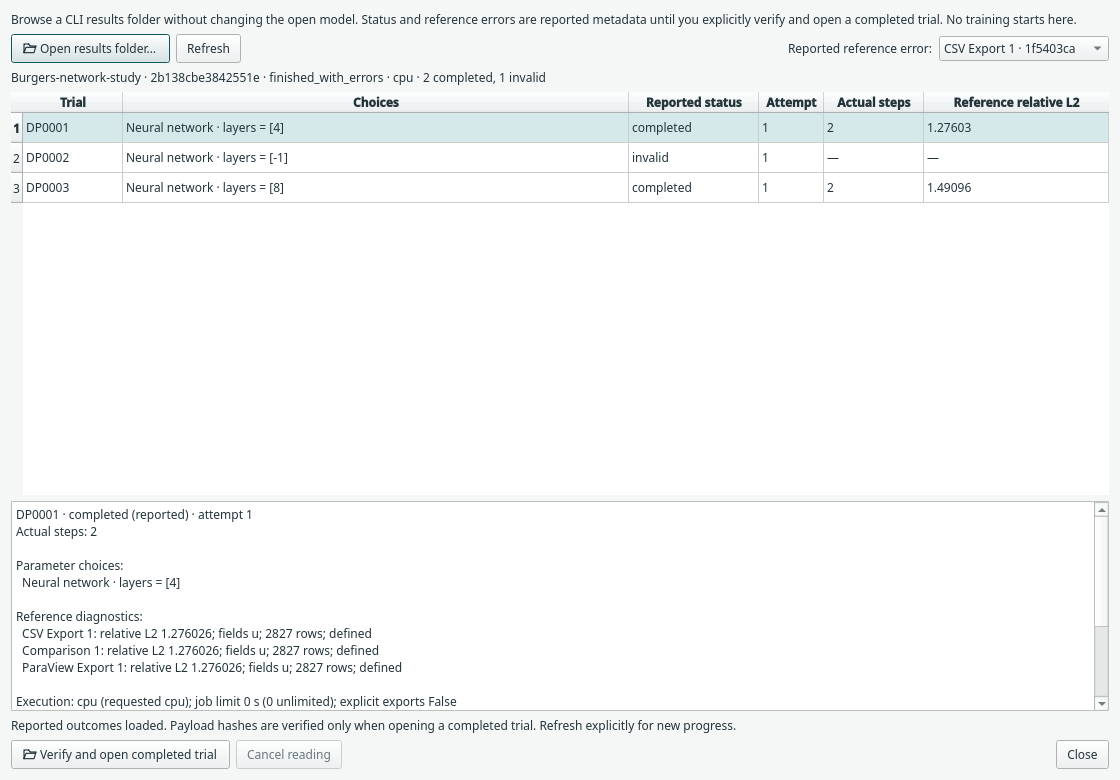
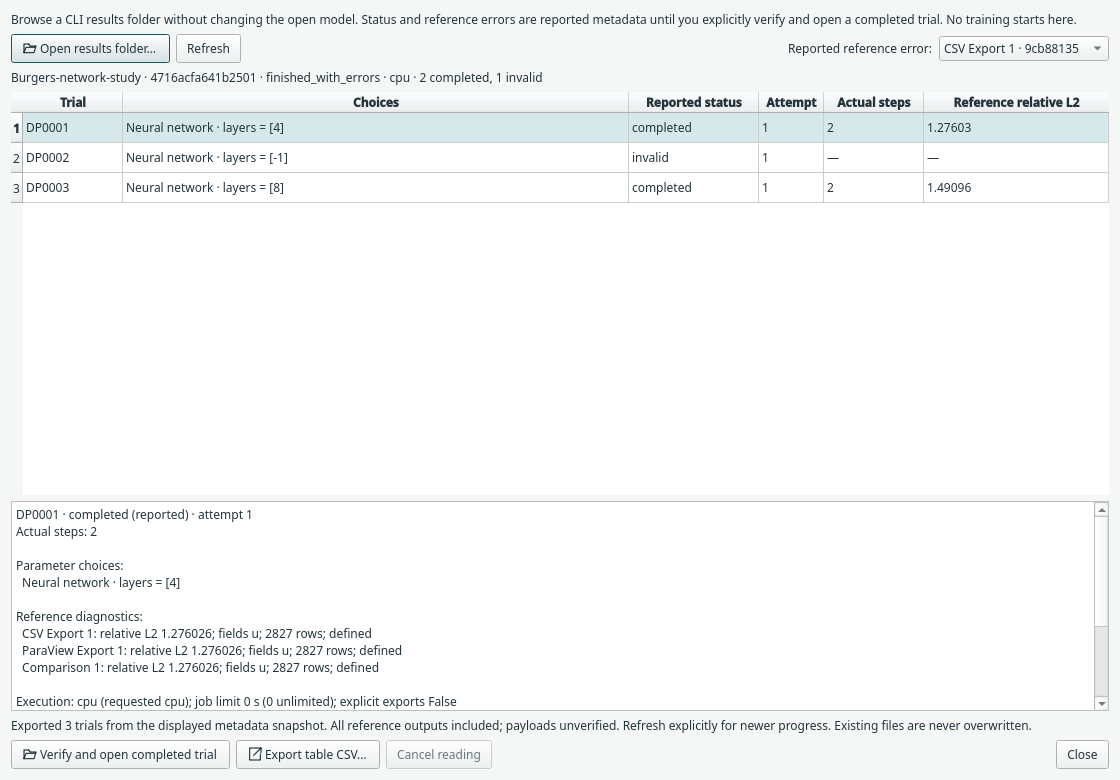
Export collected study outcomes as metadata CSV snapshots

diff --git a/tests/test_study_csv.py b/tests/test_study_csv.py
@@ -1,0 +1,65 @@
+"""Study CSV exports reported snapshots without opening archives or changing state."""
+from copy import deepcopy
+import csv
+import json
+import os
+from pathlib import Path
+import unittest
+from unittest.mock import patch
+os.environ.setdefault('QT_QPA_PLATFORM','offscreen')
+import test_study_results as fixture
+from margam.study_results import collect,export_csv
+from margam.ui.model_document import capture_model
+
+
+class StudyCSVTests(unittest.TestCase):
+    setUpClass=classmethod(fixture.StudyResultTests.setUpClass.__func__)
+    setUp=fixture.StudyResultTests.setUp
+    tearDown=fixture.StudyResultTests.tearDown
+    wait=fixture.StudyResultTests.wait
+    study=fixture.StudyResultTests.study
+    run_grid=fixture.StudyResultTests.run_grid
+    snapshot=fixture.StudyResultTests.snapshot
+    settle=fixture.StudyResultTests.settle
+
+    def test_all_trials_outputs_undefined_metrics_json_and_no_mutation(self):
+        import torch
+        output,_=self.run_grid('[[4],[-1]]','layers');data=collect(output);original=deepcopy(data)
+        data['records'][0]['choices'][0]['block']='=HYPERLINK("bad")\nquoted, label'
+        data['records'][0]['row']['metrics']={'a':dict(value=.125,status='defined',norm='relative_l2',fields=['u'],rows=3),'b':dict(value=None,status='zero_reference',norm='relative_l2',fields=['v'],rows=3)}
+        data['records'][1]['row']['reason']='=formula,\n"quoted"'
+        before=deepcopy(data);files=self.snapshot(output);model=capture_model(self.w);undo=self.w.undo_stack.index();rng=torch.get_rng_state().clone();target=self.root/'table.csv'
+        with patch('margam.ui.run_document.load_run',side_effect=AssertionError('No payload load')),patch('margam.study_results.collect',side_effect=AssertionError('No implicit refresh')):
+            self.assertEqual(export_csv(data,target),2)
+        with target.open(newline='') as stream:rows=list(csv.DictReader(stream))
+        self.assertEqual(rows[0]['metric:a:value'],'0.125');self.assertEqual(rows[0]['metric:b:value'],'');self.assertEqual(json.loads(rows[0]['metric:b:status_json']),'zero_reference')
+        self.assertEqual(rows[1]['metric:a:value'],'');self.assertEqual(rows[1]['actual_steps'],'');self.assertEqual(rows[1]['reported_status'],'invalid')
+        self.assertEqual(json.loads(rows[0]['choices_json']),data['records'][0]['choices']);self.assertEqual(json.loads(rows[1]['reason_json']),data['records'][1]['row']['reason']);self.assertTrue(rows[1]['reason_json'].startswith('"'))
+        self.assertEqual(json.loads(rows[0]['metric:a:status_json']),'defined')
+        self.assertEqual(rows[0]['summary_sha256'],original['summary_sha256']);self.assertEqual(rows[0]['metadata_scope'],'reported_snapshot_payloads_unverified')
+        self.assertEqual(before,data);self.assertEqual(files,self.snapshot(output));self.assertEqual(model,capture_model(self.w));self.assertEqual(undo,self.w.undo_stack.index());self.assertTrue(torch.equal(rng,torch.get_rng_state()))
+
+    def test_atomic_no_clobber_symlink_write_failure_and_nonfinite_cleanup(self):
+        output,_=self.run_grid('[1]');data=collect(output);target=self.root/'table.csv';export_csv(data,target);saved=target.read_bytes()
+        with self.assertRaises(FileExistsError):export_csv(data,target)
+        self.assertEqual(saved,target.read_bytes());link=self.root/'link.csv';link.symlink_to(target)
+        with self.assertRaises(FileExistsError):export_csv(data,link)
+        self.assertEqual(saved,target.read_bytes())
+        with patch('os.link',side_effect=OSError('publication failure')):
+            with self.assertRaisesRegex(OSError,'publication failure'):export_csv(data,self.root/'failed.csv')
+        self.assertFalse(list(self.root.glob('.margam-study-csv-*')));self.assertFalse((self.root/'failed.csv').exists())
+        data['records'][0]['choices'][0]['value']=float('nan')
+        with self.assertRaises(ValueError):export_csv(data,self.root/'bad.csv')
+        self.assertFalse((self.root/'bad.csv').exists())
+
+    def test_gui_export_cancel_busy_failed_refresh_and_snapshot_semantics(self):
+        output,_=self.run_grid('[1]');dialog=self.w.show_study_results();self.assertFalse(dialog.export_table(self.root/'empty.csv'))
+        dialog.open_folder(output);self.settle(dialog);self.assertTrue(dialog.export_button.isEnabled());before=capture_model(self.w)
+        with patch('margam.ui.study_results.QFileDialog.getSaveFileName',return_value=('','')):self.assertFalse(dialog.export_table())
+        # Export the displayed snapshot even when progress on disk has changed.
+        (output/'summary.json').write_text('{}');self.assertTrue(dialog.export_table(self.root/'snapshot.csv'));self.assertEqual(before,capture_model(self.w))
+        self.assertFalse(dialog.export_table(self.root/'snapshot.csv'));self.assertIn('failed',dialog.status.text())
+        dialog.refresh();self.assertFalse(dialog.export_table(self.root/'busy.csv'));self.settle(dialog);self.assertFalse(dialog.export_button.isEnabled());self.assertFalse(dialog.export_table(self.root/'stale.csv'))
+
+
+if __name__=='__main__':unittest.main()

diff --git a/margam/study_results.py b/margam/study_results.py
@@ -95,3 +95,40 @@ def prepare_open(collection,index,*,check=None):
         if file_identity(root,row['directory']+'/artifacts/publication.json',check=check)['sha256']!=row['publication_sha256']:raise ValueError('Publication changed during the verified copy.')
         cancelled(check);return temporary,target
     except BaseException:temporary.cleanup();raise
+
+
+def export_csv(collection,path):
+    """Export the collected metadata snapshot; no payload reads, ranking or refresh.
+
+    Arbitrary text is JSON-encoded in cells, preserving it without spreadsheet
+    formula interpretation. Empty metric cells mean absent, never zero.
+    """
+    import csv
+    import io
+    import json
+    from tempfile import NamedTemporaryFile
+    report=collection['report'];records=collection['records']
+    identifiers=sorted({key for record in records for key in (record['row']['metrics'] or {})})
+    fields=['csv_version','metadata_scope','study_id','summary_sha256','study_state','design_point','trial_id','reported_status','attempt','actual_steps','choices_json','reason_json','attempt_history_json','device','requested_device','source_sha256','runtime_json']
+    for key in identifiers:fields.extend(f'metric:{key}:{name}' for name in ('value','status_json','norm','fields_json','rows'))
+    def encode(value):return json.dumps(value,ensure_ascii=False,sort_keys=True,allow_nan=False,separators=(',',':'))
+    stream=io.StringIO(newline='');writer=csv.DictWriter(stream,fieldnames=fields);writer.writeheader()
+    for index,record in enumerate(records):
+        row=record['row'];execution=report['effective_execution']
+        result=dict(csv_version=1,metadata_scope='reported_snapshot_payloads_unverified',study_id=report['study_id'],summary_sha256=collection['summary_sha256'],study_state=report['state'],design_point=f'DP{index+1:04d}',trial_id=row['trial_id'],reported_status=row['status'],attempt=row['attempt'],actual_steps='' if row['steps'] is None else row['steps'],choices_json=encode(record['choices']),reason_json=encode(row['reason']),attempt_history_json=encode(row['history']),device=execution['device'],requested_device=execution['requested_device'],source_sha256=report['source']['sha256'],runtime_json=encode(report['runtime']))
+        for key,metric in (row['metrics'] or {}).items():
+            for name in ('value','norm','rows'):result[f'metric:{key}:{name}']='' if metric[name] is None else metric[name]
+            result[f'metric:{key}:status_json']=encode(metric['status'])
+            result[f'metric:{key}:fields_json']=encode(metric['fields'])
+        writer.writerow(result)
+        if stream.tell()>32*1024*1024:raise ValueError('Study CSV exceeds the 32 MiB export budget.')
+    content=stream.getvalue().encode('utf-8')
+    if len(content)>32*1024*1024:raise ValueError('Study CSV exceeds the 32 MiB export budget.')
+    path=Path(path).absolute();temporary=None
+    try:
+        with NamedTemporaryFile(prefix='.margam-study-csv-',dir=path.parent,delete=False) as output:
+            temporary=Path(output.name);output.write(content);output.flush();os.fsync(output.fileno())
+        os.link(temporary,path) # Atomic no-clobber; existing files/symlinks remain intact.
+    finally:
+        if temporary is not None:temporary.unlink(missing_ok=True)
+    return len(records)

diff --git a/margam/ui/study_results.py b/margam/ui/study_results.py
@@ -4,7 +4,7 @@ from pathlib import Path
 from PySide6.QtCore import Qt,QThread
 from PySide6.QtWidgets import (QDialog,QVBoxLayout,QHBoxLayout,QLabel,QPushButton,QFileDialog,
     QTableWidget,QTableWidgetItem,QHeaderView,QAbstractItemView,QPlainTextEdit,QComboBox)
-from ..study_results import collect,prepare_open
+from ..study_results import collect,prepare_open,export_csv
 from .icons import icon
 
 
@@ -34,12 +34,14 @@ class StudyResults(QDialog):
         self.status=QLabel('Choose the directory containing summary.json and study.margam-study.');self.status.setTextFormat(Qt.TextFormat.PlainText);self.status.setWordWrap(True);layout.addWidget(self.status)
         row=QHBoxLayout();layout.addLayout(row)
         self.open_button=QPushButton('Verify and open completed trial');self.open_button.setIcon(icon('open'));self.open_button.clicked.connect(self.open_selected);row.addWidget(self.open_button)
+        self.export_button=QPushButton('Export table CSV…');self.export_button.setIcon(icon('export'));self.export_button.clicked.connect(lambda:self.export_table());row.addWidget(self.export_button)
         self.cancel=QPushButton('Cancel reading');self.cancel.clicked.connect(self.cancel_reading);row.addWidget(self.cancel);row.addStretch()
         close=QPushButton('Close');close.clicked.connect(self.close);row.addWidget(close);self.buttons()
 
     def buttons(self):
         busy=self.worker is not None;index=self.table.currentRow()
         self.browse.setEnabled(not busy);self.refresh_button.setEnabled(not busy and self.root is not None);self.cancel.setEnabled(busy)
+        self.export_button.setEnabled(not busy and self.collection is not None)
         completed=self.collection is not None and 0<=index<len(self.collection['records']) and self.collection['records'][index]['row']['status']=='completed'
         self.open_button.setEnabled(not busy and completed and not self.owner.is_running() and not self.owner.scene.locked and not self.owner.project_workspace.busy)
 
@@ -132,6 +134,17 @@ class StudyResults(QDialog):
         if not self.open_button.isEnabled():return False
         collection=self.collection;index=self.table.currentRow()
         return self.start_read(lambda check:prepare_open(collection,index,check=check),'open')
+
+    def export_table(self,path=None):
+        if self.worker is not None or self.collection is None:return False
+        if path is None:
+            path,_=QFileDialog.getSaveFileName(self,'Export reported study snapshot to a new CSV','study-results.csv','CSV (*.csv)',options=QFileDialog.Option.DontConfirmOverwrite)
+        if not path:return False
+        try:count=export_csv(self.collection,path)
+        except (OSError,ValueError,TypeError,KeyError) as error:
+            self.status.setText('CSV export failed: '+str(error));return False
+        self.status.setText(f'Exported {count} trials from the displayed metadata snapshot. All reference outputs included; payloads unverified. Refresh explicitly for newer progress. Existing files are never overwritten.')
+        return True
 
     def cancel_reading(self):
         if self.worker is not None:self.worker.abort_requested=True;self.worker.requestInterruption();self.status.setText('Cancelling study reading…')

diff --git a/examples/capture_study_results.py b/examples/capture_study_results.py
@@ -1,5 +1,6 @@
 """Capture a real read-only study collection after small CLI trials; no accuracy claim."""
 import argparse
+import csv
 import hashlib
 import json
 import os
@@ -38,6 +39,10 @@ def main():
             assert dialog.collection is not None,dialog.status.text()
             assert dialog.collection['report']['counts']=={'completed':2,'invalid':1}
             assert before==capture_model(window) and index==window.undo_stack.index() and window.result is None
+            target=directory/'study-results.csv';assert dialog.export_table(target),dialog.status.text()
+            with target.open(newline='') as stream:exported=list(csv.DictReader(stream))
+            assert len(exported)==3 and [r['reported_status'] for r in exported]==['completed','invalid','completed']
+            assert all(r['metadata_scope']=='reported_snapshot_payloads_unverified' for r in exported)
             dialog.details.setMaximumHeight(210)
             for _ in range(4):app.processEvents()
             for cls in (QLabel,QLineEdit,QPlainTextEdit):
@@ -49,7 +54,7 @@ def main():
             assert dialog.grab().save(str(image))
             report=dialog.collection['report']
             evidence=dict(generator='examples.capture_study_results',scope='Actual Qt collection of a real three-trial CLI study; two updates per valid trial, not solution accuracy. Browsing leaves the current model unchanged.',
-                counts=report['counts'],headless=report['headless'],source_sha256=report['source']['sha256'],study_id=report['study_id'],
+                csv_rows=len(exported),csv_sha256=hashlib.sha256(target.read_bytes()).hexdigest(),counts=report['counts'],headless=report['headless'],source_sha256=report['source']['sha256'],study_id=report['study_id'],
                 runtime=report['runtime'],capture_tool_sha256=hashlib.sha256(Path(__file__).read_bytes()).hexdigest(),
                 file=image.name,sha256=hashlib.sha256(image.read_bytes()).hexdigest())
             text=json.dumps(evidence,indent=2)+'\n';validate_public_text(text,'Study collection capture evidence');manifest.write_text(text);dialog.close()

diff --git a/docs/use/study-results.md b/docs/use/study-results.md
@@ -31,6 +31,42 @@ output. Undefined zero-reference errors retain their explicit status. Details
 include the selected fields and row count. Margam does not rank trials or assume
 that errors from different fields, units, coordinates or problems are comparable.
 
+## Export the reported table
+
+Press **Export table CSV…** and choose a new filename. Every design point is
+exported in original order, including failed, invalid and unfinished trials.
+The export includes **all** recorded reference outputs, regardless of which one
+the table's error selector currently displays. Existing files and symlinks are
+refused; choose another name. The results folder itself is unchanged.
+
+This exports the **displayed metadata snapshot**. It does not refresh progress,
+load archives, verify payload hashes or rank trials. Each row records the study
+identity, snapshot summary checksum, reported study/trial status, attempt number,
+actual completed steps, device and recorded source/runtime. Empty steps and
+metric values mean absent or undefined, never an invented zero. Refresh before
+exporting if you want newer progress. Export is disabled during reading and after
+a failed refresh.
+
+CSV format version 1 uses one row per trial:
+
+| Columns | Meaning |
+| --- | --- |
+| `csv_version`, `metadata_scope` | Version 1; `reported_snapshot_payloads_unverified` |
+| `study_id`, `summary_sha256`, `study_state` | Frozen study and displayed progress identity/status |
+| `design_point`, `trial_id`, `reported_status`, `attempt`, `actual_steps` | Original trial identity and outcome |
+| `choices_json`, `reason_json`, `attempt_history_json` | Exact choices, reason and previous attempt metadata as JSON |
+| `device`, `requested_device`, `source_sha256`, `runtime_json` | Recorded execution provenance; runtime text is JSON |
+| `metric:<output-id>:value` | Reported relative L2, or empty |
+| `metric:<output-id>:status_json`, `norm`, `fields_json`, `rows` | Diagnostic status, norm, fields and row count under the same prefix |
+
+Arbitrary text cells use JSON, retaining quotes/newlines and preventing text from
+becoming spreadsheet formulas. Decode `*_json` cells with a JSON reader to recover
+their original values. Missing diagnostics have empty cells; an explicitly
+undefined diagnostic retains its JSON status and fields with an empty value.
+A zero value remains `0`, distinct from missing. Files use UTF-8 with a header,
+standard CSV quoting and a 32 MiB export limit. No physical compatibility, units
+or accuracy are inferred from matching columns.
+
 ## Open one completed trial
 
 Select a completed row and choose **Verify and open completed trial**. Margam

diff --git a/docs/validation.md b/docs/validation.md
@@ -1850,3 +1850,22 @@ The [actual exporter capture](../assets/screenshots/manual-slurm-export.png) and
 bundle with explicit resource settings, without training or submission. The
 source, generator and image hashes match maintained files. These checks do not
 qualify a real Slurm scheduler, allocation enforcement or numerical accuracy.
+
+
+## Study outcome CSV snapshots (16 November 2026)
+
+Three new export checks and eight existing study-collection checks pass:
+**11 focused checks**, including actual CPU/CUDA collection and native reopening.
+CSV checks cover every displayed trial and all reference output columns, explicit
+undefined/absent values, exact JSON choices and quoted/newline/formula-like text,
+metadata identity, no payload reads or implicit refresh, unchanged model/Undo/RNG
+and result-folder files, cancellation, busy/failed-refresh guards, atomic
+no-clobber including symlinks, and temporary-file cleanup after publication failure.
+
+The refreshed [real collection screenshot](../assets/screenshots/manual-study-results.png)
+and [manifest](../assets/screenshots/manual-study-results.json) use a three-trial
+CLI Burgers study. Two trials complete two updates and one is invalid. The capture
+exports all three CSV rows and checks their reported statuses and metadata scope.
+This is workflow evidence, not trained-solution accuracy or payload verification
+by CSV export. Source, generator and image hashes are checked against maintained
+files.

diff --git a/docs/todo.md b/docs/todo.md
@@ -351,6 +351,9 @@ scheduler workflows below remain proposed.
 - [x] Overlay two saved Training Monitor histories with original update indices,
   retained gaps, distinct raw/weighted terms, exact-value preview and explicit
   nonpositive-log handling. Never substitute checkpoint history or rank objectives.
+- [x] Export the collected metadata snapshot as an atomic no-clobber CSV: all
+  trials/output diagnostics, explicit absent/undefined values, choices, reasons,
+  attempt history and provenance. No implicit refresh, payload loading or ranking.
 - [ ] Add parallel study scheduling and further multi-run comparison in the GUI using that entry point.
 - [x] Persist stable trial IDs, full resolved settings, seeds, Python-code/data provenance,
   resource settings, status/reason, logs, requested metrics, exports and checkpoints.

diff --git a/AGENTS.md b/AGENTS.md
@@ -706,3 +706,12 @@
   preserve model/Undo/results/device/RNG. Export never submits, launches training
   or installs packages. Keep local Bash qualification distinct from real cluster
   submission and allocation enforcement.
+
+
+- Study table CSV exports the collected metadata snapshot, not fresh disk state
+  or numerical payloads. Include all trials and all output diagnostics, preserve
+  absent/undefined versus zero, choices, reasons, attempts and snapshot provenance.
+  Encode arbitrary text as JSON cells to preserve content without spreadsheet
+  formulas. Publish atomically with no-clobber and a bounded size; never rank
+  trials, infer compatibility or imply payload verification. Disable export while
+  reading or after a failed refresh, without changing model/results/RNG.

diff --git a/docs/roadmap.md b/docs/roadmap.md
@@ -715,3 +715,11 @@ Users select a saved study, a fresh destination and explicit resource budgets;
 no job is submitted and the current project stays unchanged. The documented
 round trip ends with File → Open study results. Local CPU/CUDA execution is
 qualified; real cluster submission, arrays and preemption remain future work.
+
+
+### Portable study outcome tables — 16 November 2026
+
+The study-results browser exports a UTF-8 CSV of its displayed metadata snapshot,
+including every trial and reference output, exact choices/reasons/attempt history
+and recorded provenance. Missing metrics remain absent. Export is explicit,
+atomic and no-clobber; it neither opens numerical payloads nor ranks results.

diff --git a/docs/commands.md b/docs/commands.md
@@ -799,3 +799,11 @@ Desktop Slurm export validation and illustrated capture (no cluster submission):
 QT_QPA_PLATFORM=offscreen PYTHONPATH=tests python -m unittest test_slurm_export_ui test_slurm -v
 python -m examples.capture_slurm_export --overwrite
 ```
+
+
+Study metadata CSV export and illustrated collection:
+
+```bash
+QT_QPA_PLATFORM=offscreen PYTHONPATH=tests python -m unittest test_study_csv test_study_results -v
+python -m examples.capture_study_results --overwrite
+```
